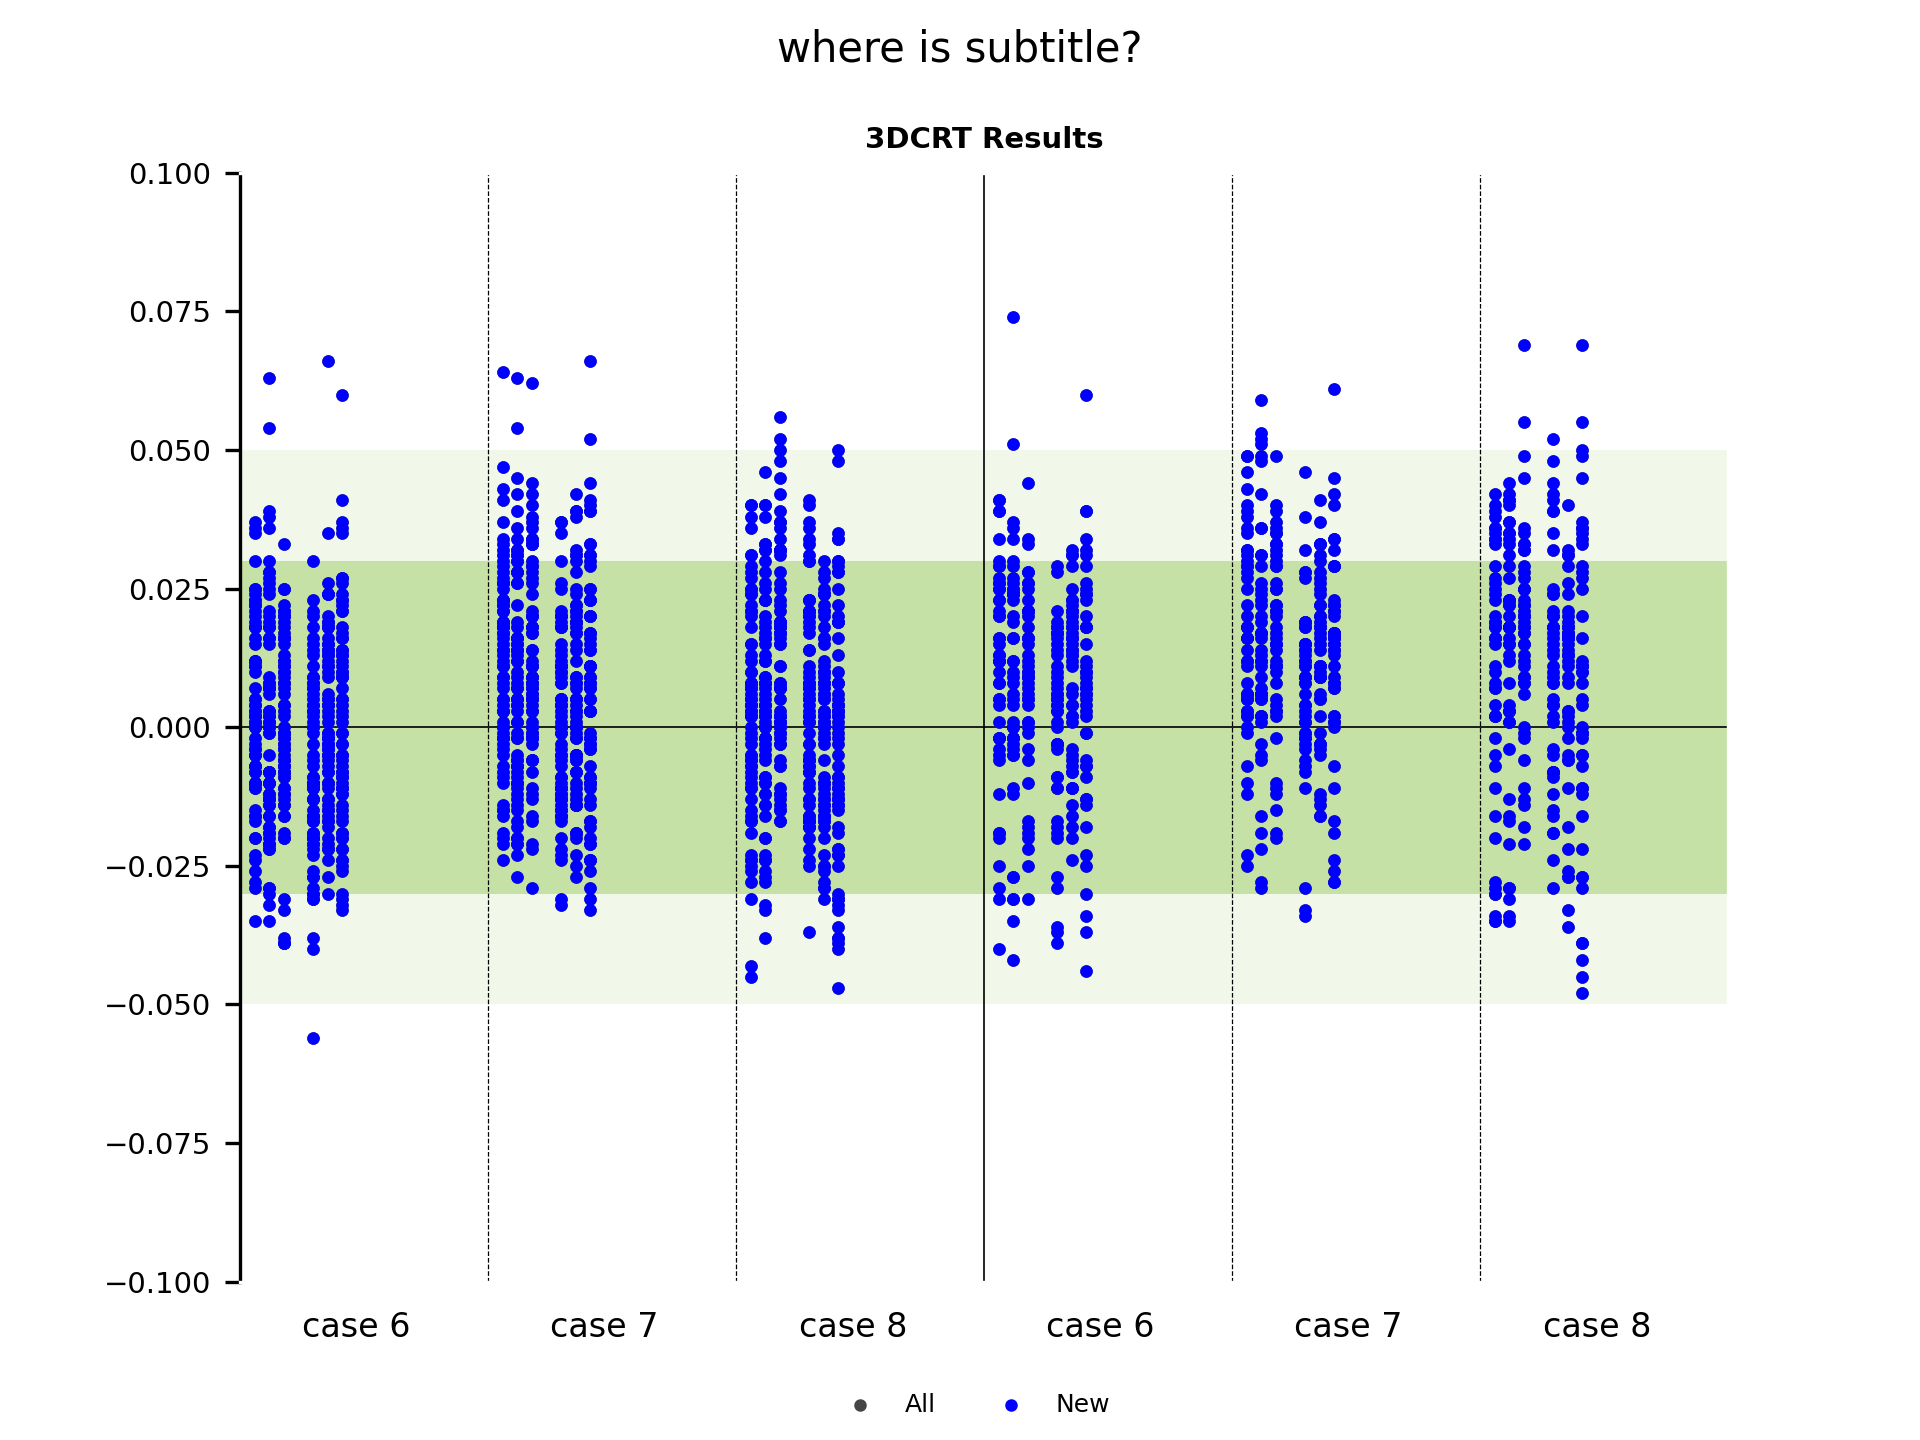
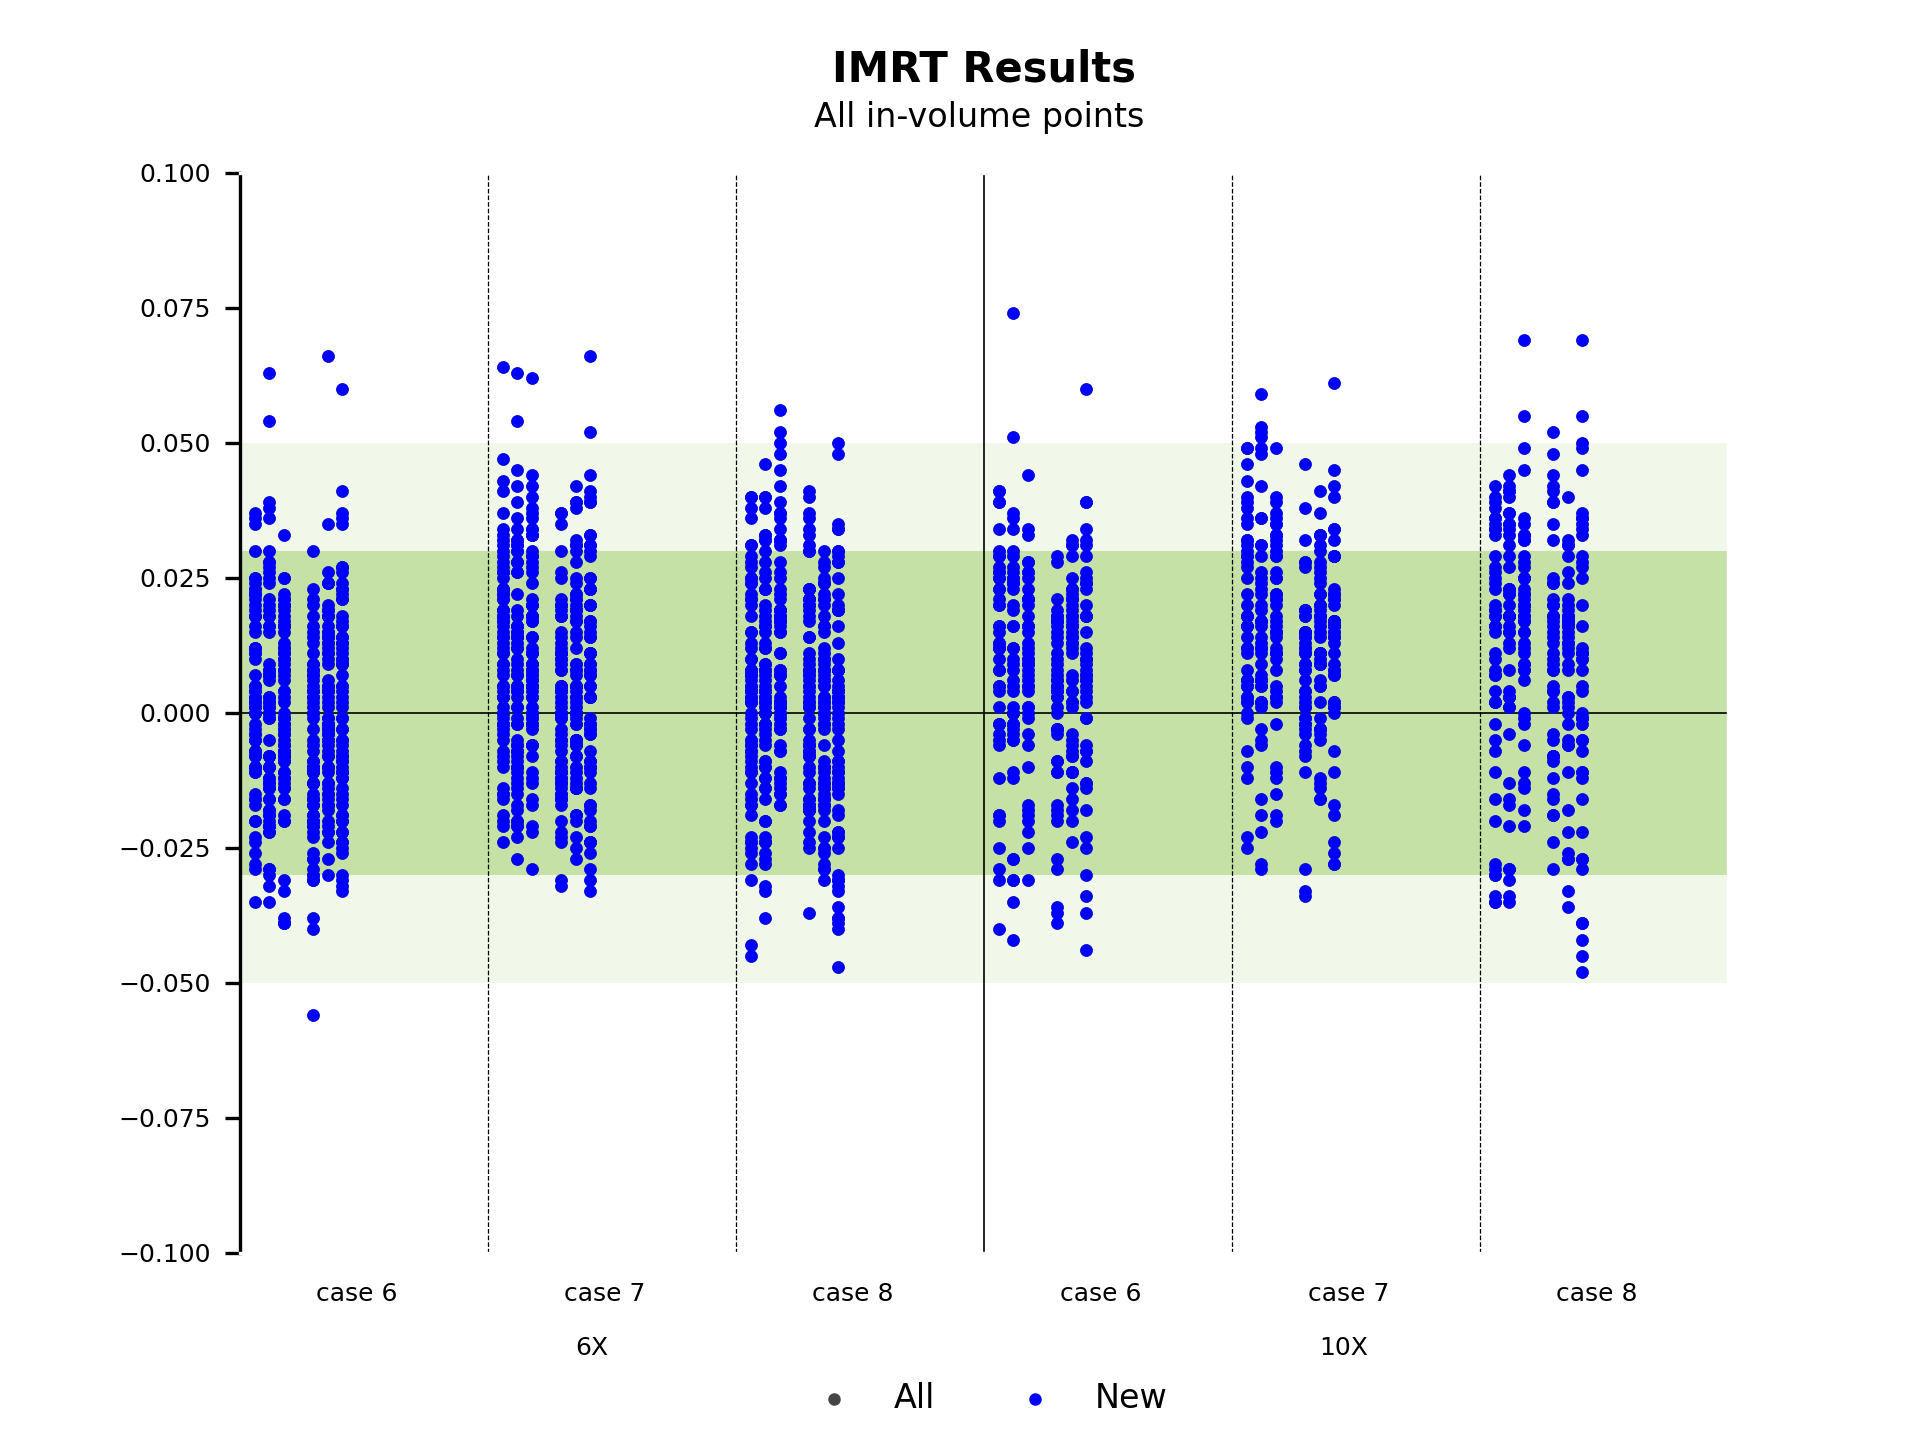
legened plot method changed. position fine-tuned, subtitle added, title type changed, position fine-tuned

diff --git a/Server/utils/plot.py b/Server/utils/plot.py
@@ -118,37 +118,48 @@ def NDS_3DCRT(data_list, series_name, mode):
     return response
 
 
-def NDS_IMRT(df):
+def NDS_IMRT(df, series_name, mode):
     matplotlib.pyplot.switch_backend('Agg')
     x = df["x"].values.tolist()
     y = df["y"].values.tolist()
-    print(x)
-    print(y)
+
     Data_series = []
-    series_name = ["All", "New"]
     # plot
     Data_series.append(plt.scatter(x, y, s=4, c="#454545", zorder=5))
     Data_series.append(plt.scatter(x, y, s=4, c="blue", zorder=5))
 
     # set axis
     xlabel_pos = [8, 25, 42, 59, 76, 93]
-    plt.xticks(xlabel_pos, ('case 6', 'case 7', 'case 8', 'case 6', 'case 7', 'case 8'), fontsize=8)
+    plt.xticks(xlabel_pos, ('case 6', 'case 7', 'case 8', 'case 6', 'case 7', 'case 8'), fontsize=6)
     plt.xlim(0, 102)
-    plt.yticks(fontsize=7)
+    plt.yticks(fontsize=6)
     plt.ylim(-0.1, 0.1)
-    plt.title("3DCRT Results", fontsize=7, fontweight="bold")
-    plt.suptitle("where is subtitle?", fontsize=10)
+    # plt.title("3DCRT Results", fontsize=7, fontweight="bold")
+    # plt.suptitle("where is subtitle?", fontsize=10)
+
+    # set white margins
+    # plt.subplots_adjust(left=0.08, right=0.83, bottom=0.4, top=0.9)
+    plt.subplots_adjust(bottom=0.13)
 
     # add green background
     ax1 = plt.gca()
     ax1.axhspan(-0.03, 0.03, facecolor="#C5E1A5", alpha=1, zorder=2)
     ax1.axhspan(-0.05, 0.05, facecolor="#F1F8E9", alpha=1, zorder=1)
 
-    # configure plot boundries
+    # configure plot boundaries
     ax1.spines["top"].set_edgecolor("white")
     ax1.spines["bottom"].set_edgecolor("white")
     ax1.spines["right"].set_edgecolor("white")
     ax1.tick_params(bottom=False)
+
+    # set title and sub title
+    ax1.set_title('IMRT Results', y=1.1, horizontalalignment='center' , pad=-4, size=10, fontweight='bold')
+    if mode == 'all':
+        plt.suptitle("All in-volume points", y=0.93, x=0.51, fontsize=8)
+    elif mode == 'average':
+        plt.suptitle("Average of in-volume points", y=0.93, x=0.51, fontsize=8)
+    elif mode == 'std':
+        plt.suptitle("Standard Deviation of in-volume points", y=0.93, x=0.51, fontsize=8)
 
     # add line
     plt.axvline(x=17, c="black", linewidth=0.3, linestyle="dashed")
@@ -158,10 +169,15 @@ def NDS_IMRT(df):
     plt.axvline(x=85, c="black", linewidth=0.3, linestyle="dashed")
     plt.axhline(y=0, c="black", linewidth=0.4)
 
+    # add energy text
+    plt.text(23, -0.119, "6X", fontsize=6, zorder=6)
+    plt.text(74, -0.119, "10X", fontsize=6, zorder=6)
+
     # add legend
     # plt.legend(Data_series, series_name, loc='lower center', prop={'size': 6}, ncol=len(series_name))
-    plt.legend(Data_series, series_name, bbox_to_anchor=(0.6, -0.08), prop={'size': 6}, ncol=len(series_name),
-               frameon=False)
+    # plt.legend(Data_series, series_name, bbox_to_anchor=(0.62, -0.11), prop={'size': 8}, ncol=len(series_name),
+    #            frameon=False)
+    ax1.legend(Data_series, series_name, loc='center', bbox_to_anchor=(0.5, -0.135), ncol=len(series_name), fontsize=8, frameon=False)
 
     plt.savefig("./imrtPP.png", dpi=300)
 
@@ -257,4 +273,5 @@ def code_to_x(input_code):
 
 if __name__ == '__main__':
     df = pd.read_excel("./imrt.xlsx")
-    NDS_IMRT(df)
+    series_name = ["All", "New"]
+    NDS_IMRT(df, series_name, "all")

diff --git a/Server/utils/plotSample.py b/Server/utils/plotSample.py
@@ -1,0 +1,18 @@
+import matplotlib.pyplot as plt
+import numpy as np
+
+x = np.arange(10)
+
+fig = plt.figure()
+ax = plt.subplot(111)
+
+for i in range(5):
+    ax.plot(x, i * x, label='$y = %ix$'%i)
+
+# Shrink current axis by 20%
+box = ax.get_position()
+ax.set_position([box.x0, box.y0, box.width * 0.8, box.height])
+
+# Put a legend to the right of the current axis
+ax.legend(loc='center', bbox_to_anchor=(0.5, -0.1), ncol=5)
+plt.savefig("./testPP.png", dpi=300)

diff --git a/Server/utils/sample.py b/Server/utils/sample.py
@@ -1,5 +1,5 @@
 import pandas as pd
-from utils import plot
+from Server.utils import plot
 
 data = {"101106": [-0.003], "110106": [None], "205106": [None], "208106": [None], "205206": [None], "208206": [None],
         "205306": [None], "208306": [None],
